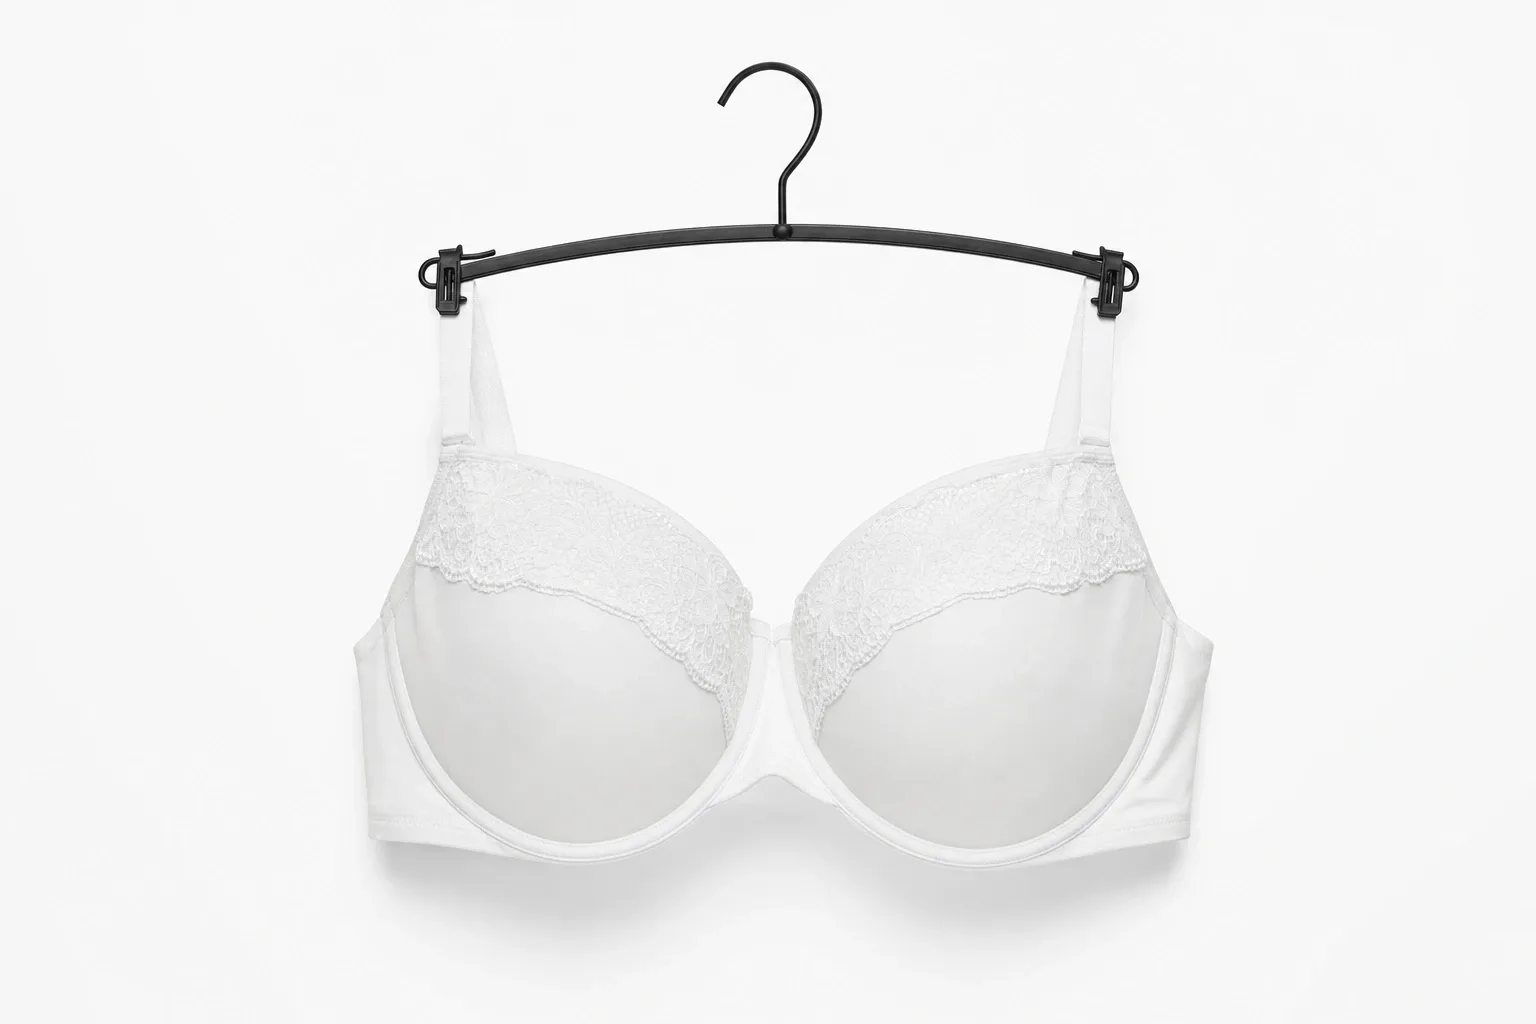
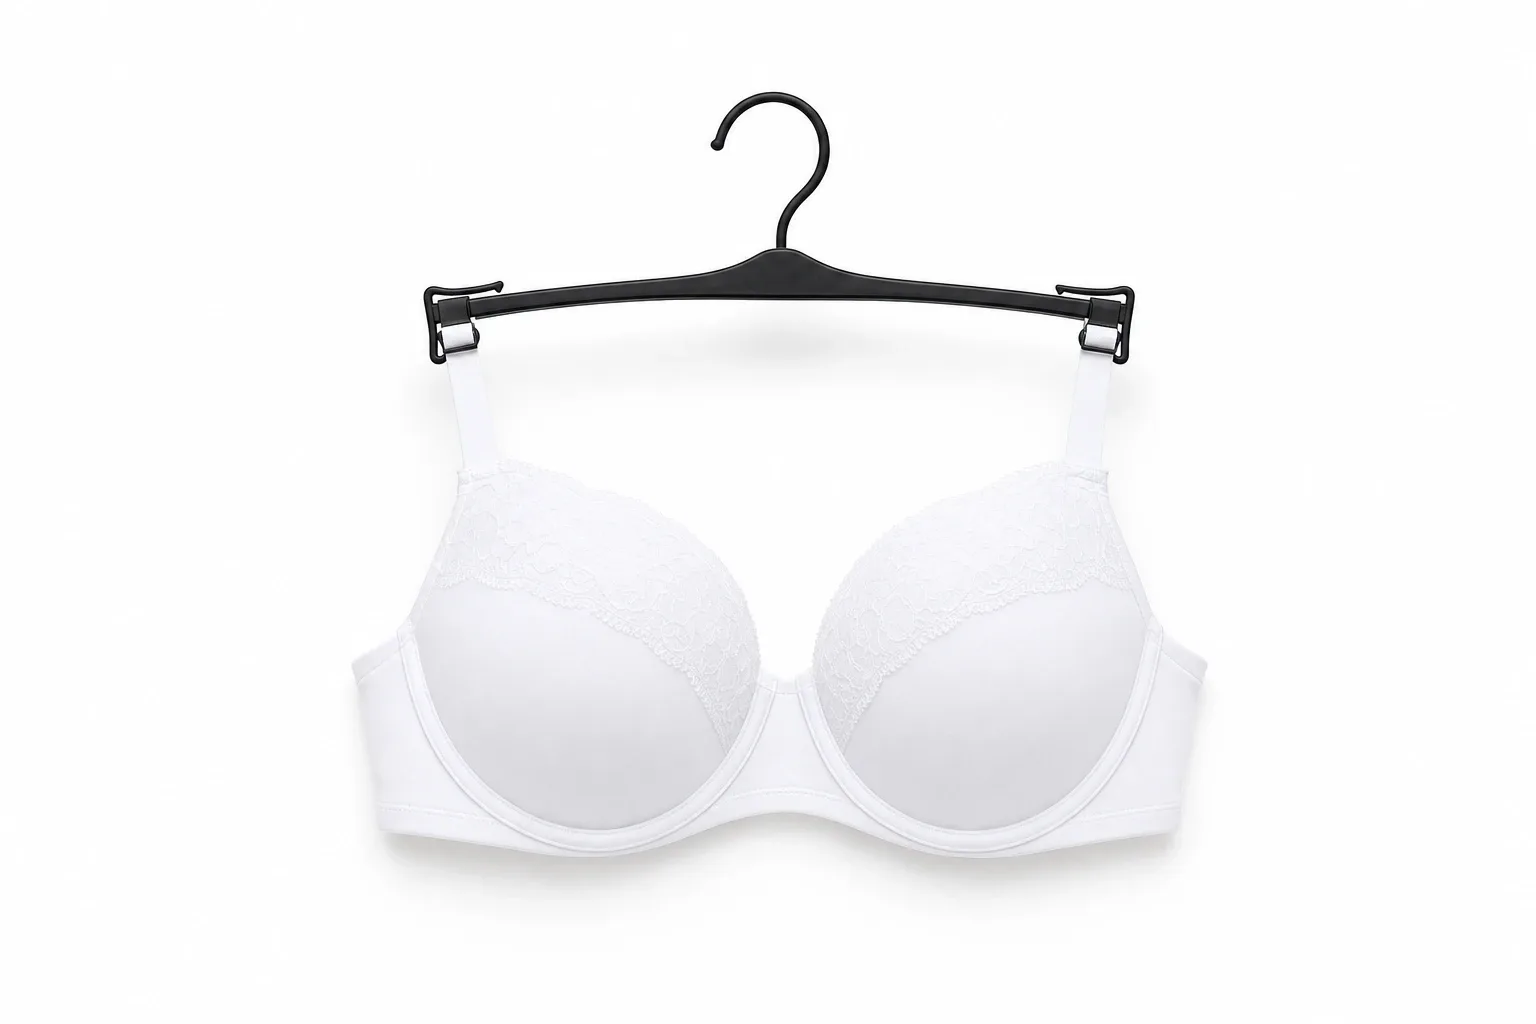
giros/lencería: el blanco del cuarteto anclado al negro y el probador recompuesto
Claude-Session: https://claude.ai/code/session_019MutHCukWJumH5E3dGyya4

diff --git a/sitio/src/data/giros/_fotos/README.md b/sitio/src/data/giros/_fotos/README.md
@@ -108,8 +108,8 @@ de cuatro dictámenes seguidos, no de una corazonada.
 | maternidad | 0 de 22 (2 retiradas por dignidad) | **las 22 aprobadas · cero fallas de dignidad** | **resuelta** |
 | tallas grandes | 9 de 22 | **las 22 aprobadas en ronda 2** · 4 rehechas con discos en blanco (aprobadas en ronda 7); el giro queda 38-52 + discos lisos, ya sin 14-24 | **resuelta, par confirmado** |
 | outlet | 10 de 22 | **las 22 aprobadas en ronda 2** | **resuelta, par confirmado** |
-| emprendedoras | 9 de 22 | 13 en corrección | no (salió estudio, no cuarto de casa) |
-| lencería | 7 de 23 (2 retiradas por dignidad) | 16 en corrección | no (otra mujer y otro local) |
+| emprendedoras | 9 de 22 | **las 22 aprobadas en ronda 2** · el cuarteto de blusas salió parejo a la primera (altura 899-914 px en las cuatro) | **resuelta, par confirmado** (mismo cuarto de casa) |
+| lencería | 7 de 23 (2 retiradas por dignidad) | **las 23 aprobadas en ronda 2** · cero fallas de dignidad · calcetería recortada por el borde izquierdo (dos empaques desenfocados que a 5x parecían un torso) · vino y blanco del cuarteto rehechos en ronda 8b con el negro como referencia (escala dispar) · probador recompuesto (la prenda ya no se encima con el cuerpo) | **resuelta, par confirmado** |
 
 **Lo que se retiró de producción por dignidad, y por qué.** Cuatro fotos en total:
 dos de maternidad (empaques y un cartel impresos con mujeres en ropa interior) y
